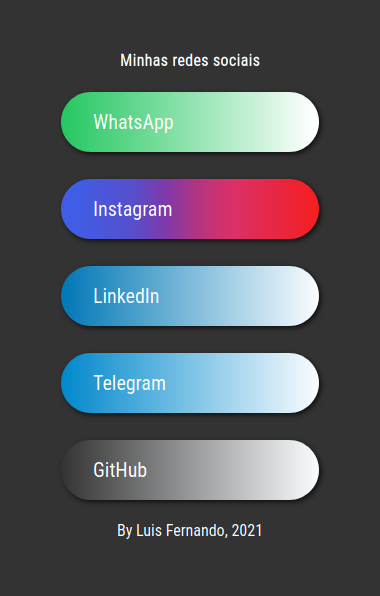
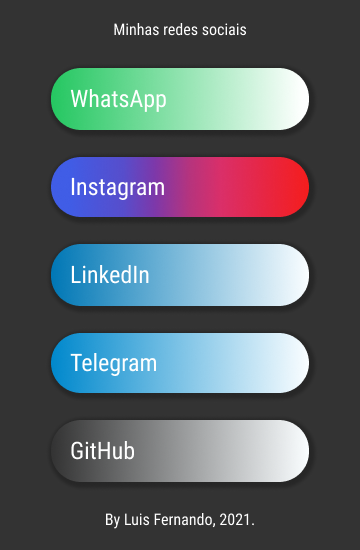
up

Changed region(s): [[0.1222, 0.0309, 0.8556, 0.4018], [0.1222, 0.5873, 0.8556, 0.9582], [0.1222, 0.4327, 0.8556, 0.5564]]

diff --git a/index.html b/index.html
@@ -23,19 +23,17 @@
     <div class="container">
         <nav class="nav">
             <span class="nav-link logo" href="#">Luis Fernando</span>
-            <a class="nav-link" href="https://www.linkedin.com/in/luisfernando/"><i class="fab fa-linkedin-in small-socialMedia"></i></a>
-            <a class="nav-link" href="https://api.whatsapp.com/send?phone=5511951228977&text=Ol%C3%A1%20Luis!"><i class="fab fa-whatsapp small-socialMedia"></i></a>
-            <a class="nav-link" href="https://www.instagram.com/luisfernandodass/"><i class="fab fa-instagram small-socialMedia"></i></a>
-            <a class="nav-link" href="https://github.com/luisfernandodass"><i class="fab fa-github small-socialMedia"></i></a>
+            <a class="nav-link" href="https://www.linkedin.com/in/luisfernandodass/" target="_blank"><i class="fab fa-linkedin-in small-socialMedia"></i></a>
+            <a class="nav-link" href="https://api.whatsapp.com/send?phone=5511951228977&text=Ol%C3%A1%20Luis!" target="_blank"><i class="fab fa-whatsapp small-socialMedia"></i></a>
+            <a class="nav-link" href="https://www.instagram.com/luisfernandodass/" target="_blank"><i class="fab fa-instagram small-socialMedia"></i></a>
+            <a class="nav-link" href="https://github.com/luisfernandodass" target="_blank"><i class="fab fa-github small-socialMedia"></i></a>
         </nav>
 
     <h1 class="container-fluid seek-intern-position">
         Procuro estágio em front-end
     </h1>
-
       
-                
-            <h1 class="title-myProjects mt-5">
+            <h1 class="title-myProjects mt-3">
                 Meus projetos
             </h1>
 
@@ -51,9 +49,9 @@
         </div>
       </div>     
          
-                <h1 class="title-aboutMe mt-5 mb-5">Sobre mim</h1>
+                <h1 class="title-aboutMe mt-3">Sobre mim</h1>
 
-                <div class="about-me-container mt-2 row">
+                <div class="about-me-container mt-3 row">
                     <div class="col-4">
                         <img src="./img/luis.jpeg"  class="my-img" alt="">
                     </div>
@@ -61,23 +59,22 @@
                     <div class="col-4">
                        <p>
                         Olá meu nome é Luis, tenho 18 anos.<br><br>
-                        Trabalhei no Banco do Brasil de outubro de 2018 até outubro de 2002.<br><br>
-                        Estou cursando Análise e Desenvolvimento de Sistemas na UNIP.<br><br>
-                        Gosto muito de ler e de liderar, quero que as coisas avançem.
+                        Trabalhei no Banco do Brasil de outubro de 2018 até outubro de 2020.<br><br>
+                        Graças ao trabalho, entrei na faculdade e no curso de inglês na NumberOne.<br><br>
+                        Hoje estou no 3° semestre na faculdade e falo inglês avançado.<br><br>
                        </p>
                     </div>
 
                      <div class="col-4">
                         <p>
-                        Tenho conhecimento em:<br><br>
-                        Inglês, JavaScript & Json<br><br>
-                        CSS, Sass, HTML & Bootstrap<br><br>
-                        SQL, UI & Responsive Design
+                        Curso Análise e Desenvolvimento de Sistemas na UNIP.<br><br>
+                        Gosto muito de ler e de fazer com que as coisas avançem.<br><br>
+                        Você poder ver meus conhecimentos abaixo
                        </p>
                     </div>
                 </div>
          
-        <h1 class="courses-title mt-5">Cursos</h1>
+        <h1 class="courses-title mt-3">Cursos</h1>
 
         <div class="container-courses row">
 
@@ -105,11 +102,11 @@
       
         <footer>
             <h1 class="mb-5">Links</h1>
-                 <a href="https:/www.linkedin.com/in/luisfernando"><i class="fab fa-linkedin-in big-socialMedia"></i></a>
-                 <a href="https://api.whatsapp.com/send?phone=5511951228977&text=Ol%C3%A1%20Luis!"><i class="fab fa-whatsapp big-socialMedia"></i></a>
-                 <a href="https://www.instagram.com/luisfernandodass/"><i class="fab fa-instagram big-socialMedia"></i></a>
-                 <a href="https://github.com/luisfernandodass"><i class="fab fa-github big-socialMedia"></i></a>
-            <p class="by mt-5">Desenvolvido por Luis Fernando, 2021.</p>
+                 <a href="https:/www.linkedin.com/in/luisfernandodass/" target="_blank"><i class="fab fa-linkedin-in big-socialMedia"></i></a>
+                 <a href="https://api.whatsapp.com/send?phone=5511951228977&text=Ol%C3%A1%20Luis!" target="_blank"><i class="fab fa-whatsapp big-socialMedia" target="_blank"></i></a>
+                 <a href="https://www.instagram.com/luisfernandodass/" target="_blank"><i class="fab fa-instagram big-socialMedia"></i></a>
+                 <a href="https://github.com/luisfernandodass" target="_blank"><i class="fab fa-github big-socialMedia"></i></a>
+            <p class="mt-5">Desenvolvido por Luis Fernando, 2021.</p>
         </footer>
          <script src="js/carousel.js"></script>
     </div>

diff --git a/css/index.css b/css/index.css
@@ -31,13 +31,17 @@ p{
   height: 55px;
 }
 
+.nav-link{
+  display: block;
+  padding-top: 20px;
+}
+
 .logo{
    font-family: Shadows Into Light;
    margin-right: 30%;
    font-size: 28px;
+    padding-top: 7px;
 }
-
-
 
 .seek-intern-position{
   text-align: center;
@@ -94,8 +98,11 @@ p{
   color: white;
   width: 100%;
   border-radius: 5px;
-  padding: 3rem;
-  
+  padding-top: 2rem;
+  padding-left: 2rem;
+  padding-right: 2rem;
+  margin-left: 0;
+  margin-right: 0;
 }
 
 .my-img{
@@ -115,18 +122,18 @@ p{
   color: white;
   width: 100%;
   border-radius: 5px;
-  padding: 3rem;
-  
+  padding-top: 3rem;
+  padding-left: 14rem;
+  padding-bottom: 1rem;
 }
-
 
 footer{
   background:  #249ED2;
   color: white;
   width: 100%;
   border-radius: 5px;
-  padding-top: 2rem;
-  padding-bottom: 2rem;
+  padding-top: 1rem;
+  padding-bottom: 1rem;
   text-align: center;
   
 }

diff --git a/css/carousel.css b/css/carousel.css
@@ -21,7 +21,7 @@
 }
 
 #galleryView {
-  height: 100vh;
+  height: 90vh;
   width: 100%;
   background: transparent;
   display: flex;
@@ -44,7 +44,7 @@
 }
 
 #mainView:hover {
-  transform: scale(1.2);
+  transform: scale(1.1);
   transition: all 1s;    
 }
 

diff --git a/js/carousel.js b/js/carousel.js
@@ -2,6 +2,8 @@ let imgObject = [
   "./img/booksave.png",
   "./img/diasvividos.png",
   "./img/contato.png",
+  "./img/shower.png",
+  "./img/pedepizza.png",
 ];
 
 let mainImg = 0;
